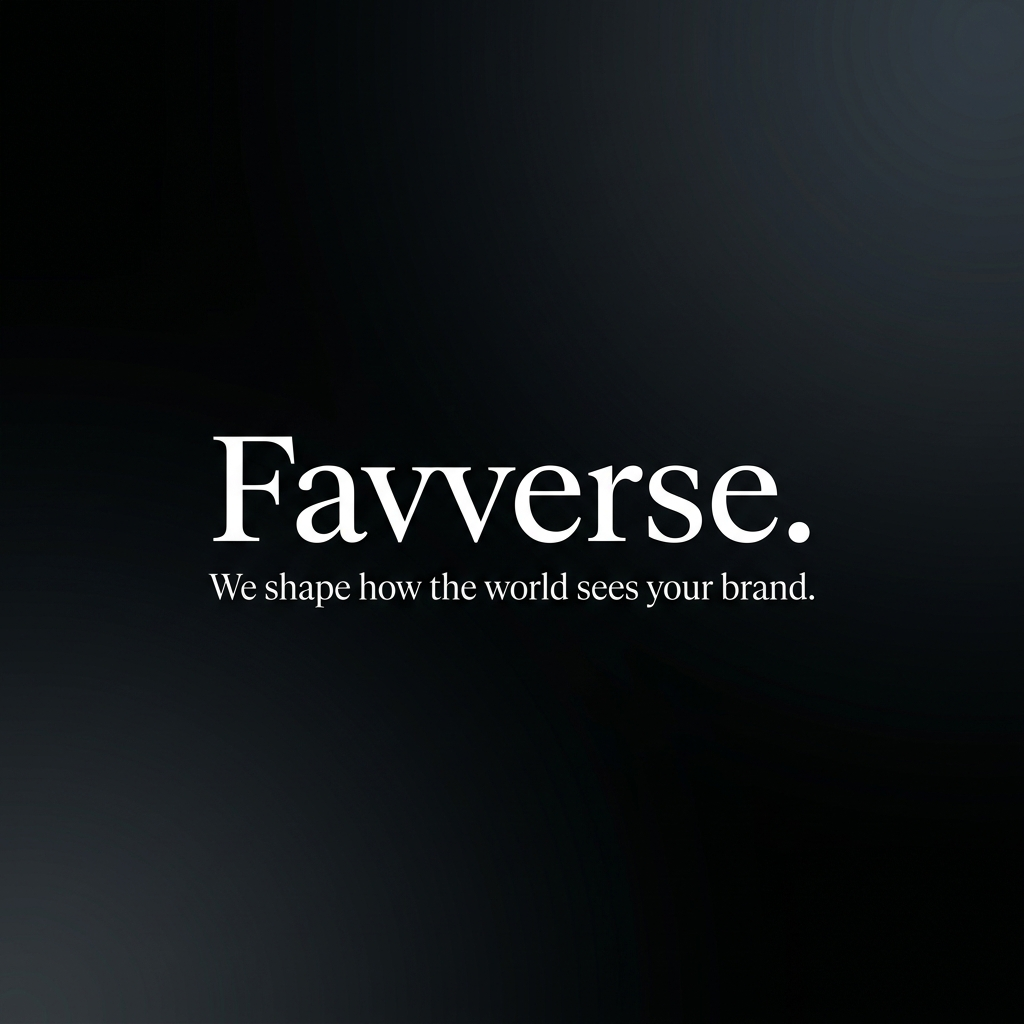
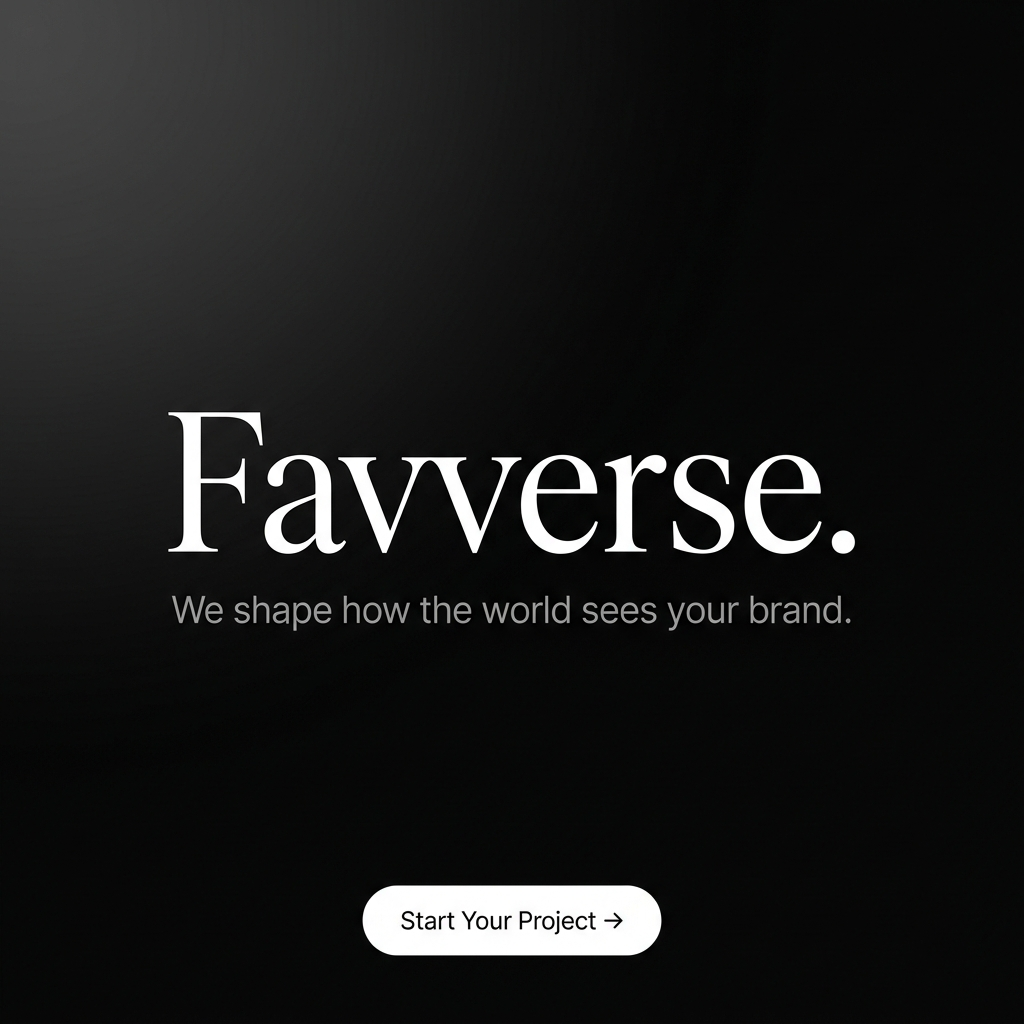
Fix OG image to 1200x630 with CTA, extend title to 51 chars, description to 133 chars

diff --git a/index.html b/index.html
@@ -5,7 +5,7 @@
     <meta name="viewport" content="width=device-width, initial-scale=1.0" />
 
     <!-- ═══ Primary SEO ══════════════════════════════════════════════════ -->
-    <title>Favverse. — Premium Web Design & SEO Studio</title>
+    <title>Favverse. — Web Design, SEO & Digital Growth Studio</title>
     <meta name="description" content="Favverse. is a premium digital studio crafting modern websites, SEO strategies, and digital experiences that help businesses grow, rank, and stand out online." />
     <meta name="keywords" content="web design, website design, SEO optimization, digital studio, digital growth, modern websites, business website, Favverse" />
     <meta name="author" content="Favverse." />
@@ -15,8 +15,8 @@
     <!-- ═══ Open Graph (Facebook / LinkedIn / WhatsApp) ══════════════════ -->
     <meta property="og:type" content="website" />
     <meta property="og:site_name" content="Favverse." />
-    <meta property="og:title" content="Favverse. — Premium Web Design & SEO Studio" />
-    <meta property="og:description" content="We shape how the world sees your brand. Modern websites, SEO, and digital growth — crafted with precision." />
+    <meta property="og:title" content="Favverse. — Web Design, SEO & Digital Growth Studio" />
+    <meta property="og:description" content="We shape how the world sees your brand. Premium website design, SEO optimisation, and digital growth — crafted with precision for businesses that want to stand out." />
     <meta property="og:url" content="https://favverse.pages.dev/" />
     <meta property="og:image" content="https://favverse.pages.dev/og-image.jpg" />
     <meta property="og:image:width" content="1200" />
@@ -26,8 +26,8 @@
 
     <!-- ═══ Twitter Card ══════════════════════════════════════════════════ -->
     <meta name="twitter:card" content="summary_large_image" />
-    <meta name="twitter:title" content="Favverse. — Premium Web Design & SEO Studio" />
-    <meta name="twitter:description" content="We shape how the world sees your brand. Modern websites, SEO, and digital growth — crafted with precision." />
+    <meta name="twitter:title" content="Favverse. — Web Design, SEO & Digital Growth Studio" />
+    <meta name="twitter:description" content="We shape how the world sees your brand. Premium website design, SEO optimisation, and digital growth — crafted with precision for businesses that want to stand out." />
     <meta name="twitter:image" content="https://favverse.pages.dev/og-image.jpg" />
     <meta name="twitter:image:alt" content="Favverse. — Premium Web Design & SEO Studio" />
 